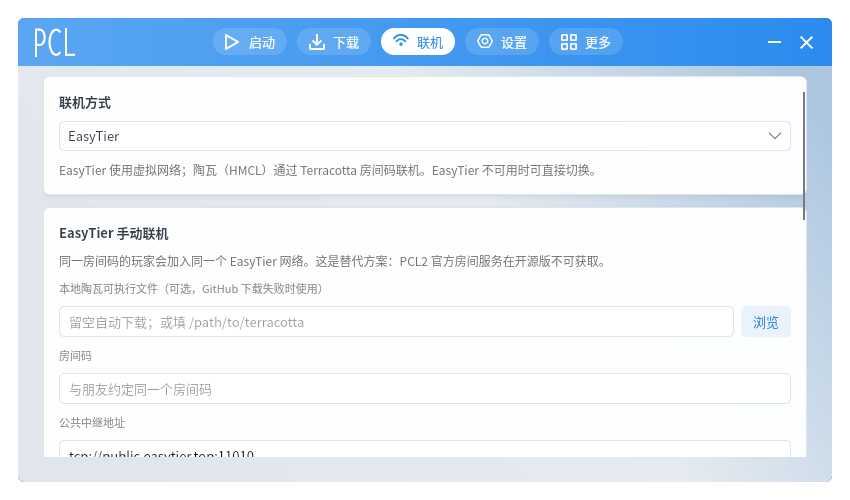
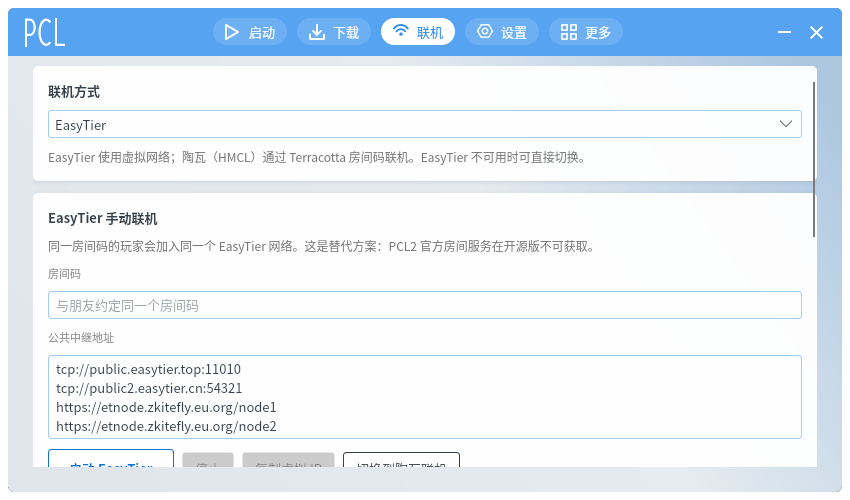
Fix: version selection and link backend logic

Changed region(s): [[0.0, 0.0, 1.0, 0.99], [0.8565, 0.63, 0.9176, 0.66]]

diff --git a/src/WMCL.App/ViewModels/LinkViewModel.cs b/src/WMCL.App/ViewModels/LinkViewModel.cs
@@ -37,6 +37,7 @@ public partial class LinkViewModel : ViewModelBase
         _terracottaMode = services.Settings.TerracottaMode == "加入房间"
             ? "加入房间"
             : "创建房间";
+        _terracottaExecutablePath = services.Settings.TerracottaExecutablePath;
         _service.LogReceived += line =>
         {
             Avalonia.Threading.Dispatcher.UIThread.Post(() => AppendLog(line));
@@ -84,7 +85,7 @@ public partial class LinkViewModel : ViewModelBase
     private bool _isTerracottaRunning;
 
     public bool HasTerracottaAddress => !string.IsNullOrWhiteSpace(TerracottaAddress);
-    public bool CanStartTerracotta => !IsTerracottaBusy && !IsTerracottaRunning;
+    public bool CanStartTerracotta => !IsTerracottaBusy && !IsTerracottaRunning && !IsBusy && !IsRunning;
     public bool CanStopTerracotta => IsTerracottaRunning || (IsTerracottaBusy && _terracottaCts is not null);
 
     [ObservableProperty]
@@ -123,7 +124,7 @@ public partial class LinkViewModel : ViewModelBase
     [ObservableProperty]
     private bool _isRunning;
 
-    public bool CanStart => !IsBusy && !IsRunning;
+    public bool CanStart => !IsBusy && !IsRunning && !IsTerracottaBusy && !IsTerracottaRunning;
     public bool CanStop => IsRunning || (IsBusy && _easyTierCts is not null);
     public bool HasVirtualIp => !string.IsNullOrWhiteSpace(VirtualIp);
 
@@ -131,41 +132,51 @@ public partial class LinkViewModel : ViewModelBase
     {
         OnPropertyChanged(nameof(IsEasyTier));
         OnPropertyChanged(nameof(IsTerracotta));
-        StartTerracottaCommand.NotifyCanExecuteChanged();
-        StopTerracottaCommand.NotifyCanExecuteChanged();
+        if (value == "陶瓦（HMCL）")
+        {
+            if (IsBusy) _easyTierCts?.Cancel();
+            if (IsRunning) _ = StopInternalAsync();
+            if (IsBusy || IsRunning) Status = "已切换到陶瓦联机，EasyTier 已停止。";
+        }
+        else if (value == "EasyTier")
+        {
+            if (IsTerracottaBusy) _terracottaCts?.Cancel();
+            if (IsTerracottaRunning) _ = StopTerracottaInternalAsync();
+            if (IsTerracottaBusy || IsTerracottaRunning)
+                TerracottaStatus = "已切换到 EasyTier，陶瓦已停止。";
+        }
+        NotifyLinkCommands();
     }
 
-    partial void OnIsTerracottaBusyChanged(bool value) => NotifyTerracottaCommands();
+    partial void OnIsTerracottaBusyChanged(bool value) => NotifyLinkCommands();
 
-    partial void OnIsTerracottaRunningChanged(bool value) => NotifyTerracottaCommands();
+    partial void OnIsTerracottaRunningChanged(bool value) => NotifyLinkCommands();
 
     partial void OnTerracottaAddressChanged(string value) =>
         OnPropertyChanged(nameof(HasTerracottaAddress));
 
-    private void NotifyTerracottaCommands()
+    private void NotifyLinkCommands()
     {
+        OnPropertyChanged(nameof(CanStart));
+        OnPropertyChanged(nameof(CanStop));
         OnPropertyChanged(nameof(CanStartTerracotta));
         OnPropertyChanged(nameof(CanStopTerracotta));
+        StartCommand.NotifyCanExecuteChanged();
+        StopCommand.NotifyCanExecuteChanged();
         StartTerracottaCommand.NotifyCanExecuteChanged();
         StopTerracottaCommand.NotifyCanExecuteChanged();
     }
 
-    partial void OnIsBusyChanged(bool value) => NotifyCommands();
+    partial void OnIsBusyChanged(bool value) => NotifyLinkCommands();
 
-    partial void OnIsRunningChanged(bool value) => NotifyCommands();
+    partial void OnIsRunningChanged(bool value) => NotifyLinkCommands();
 
     partial void OnVirtualIpChanged(string value) =>
         OnPropertyChanged(nameof(HasVirtualIp));
 
-    partial void OnRoomCodeChanged(string value) => NotifyCommands();
+    partial void OnRoomCodeChanged(string value) => NotifyLinkCommands();
 
-    private void NotifyCommands()
-    {
-        OnPropertyChanged(nameof(CanStart));
-        OnPropertyChanged(nameof(CanStop));
-        StartCommand.NotifyCanExecuteChanged();
-        StopCommand.NotifyCanExecuteChanged();
-    }
+
 
     [RelayCommand(CanExecute = nameof(CanStart))]
     private async Task StartAsync()
@@ -175,6 +186,12 @@ public partial class LinkViewModel : ViewModelBase
         {
             Status = "房间码至少 4 个字符，请与朋友使用同一个房间码。";
             return;
+        }
+
+        if (IsTerracottaRunning)
+        {
+            await StopTerracottaInternalAsync();
+            TerracottaStatus = "陶瓦已停止，正在启动 EasyTier。";
         }
 
         SaveLinkSettings();
@@ -213,7 +230,7 @@ public partial class LinkViewModel : ViewModelBase
             _easyTierCts?.Dispose();
             _easyTierCts = null;
             IsBusy = false;
-            NotifyCommands();
+            NotifyLinkCommands();
         }
     }
 
@@ -410,6 +427,12 @@ public partial class LinkViewModel : ViewModelBase
             return;
         }
 
+        if (IsRunning)
+        {
+            await StopInternalAsync();
+            Status = "EasyTier 已停止，正在启动陶瓦。";
+        }
+
         SaveLinkSettings();
         _terracottaCts = new CancellationTokenSource();
         IsTerracottaBusy = true;
@@ -464,7 +487,7 @@ public partial class LinkViewModel : ViewModelBase
             _terracottaCts?.Dispose();
             _terracottaCts = null;
             IsTerracottaBusy = false;
-            NotifyTerracottaCommands();
+            NotifyLinkCommands();
         }
     }
 
@@ -568,6 +591,7 @@ public partial class LinkViewModel : ViewModelBase
         _services.Settings.EasyTierRoomCode = RoomCode;
         _services.Settings.LinkBackend = SelectedBackend;
         _services.Settings.TerracottaMode = TerracottaMode;
+        _services.Settings.TerracottaExecutablePath = TerracottaExecutablePath;
         _services.SaveSettings();
     }
 

diff --git a/src/WMCL.App/Views/VersionSelectView.axaml.cs b/src/WMCL.App/Views/VersionSelectView.axaml.cs
@@ -1,8 +1,19 @@
 using Avalonia.Controls;
+using Avalonia.Input;
+using Avalonia.Interactivity;
+using WMCL.App.ViewModels;
 
 namespace WMCL.App.Views;
 
 public partial class VersionSelectView : UserControl
 {
     public VersionSelectView() => InitializeComponent();
+
+    private void OnVersionListPointerReleased(object? sender, PointerReleasedEventArgs e)
+    {
+        // PCL2 PageSelect：单击版本即选中并返回启动页；异步首次选中不会触发。
+        if (DataContext is not VersionSelectViewModel viewModel) return;
+        if (viewModel.SelectedVersion is null) return;
+        viewModel.ConfirmCommand.Execute(null);
+    }
 }

diff --git a/src/WMCL.App/Services/AppSettings.cs b/src/WMCL.App/Services/AppSettings.cs
@@ -23,6 +23,7 @@ public sealed class AppSettings
     public string EasyTierRoomCode { get; set; } = "";
     public string LinkBackend { get; set; } = "EasyTier";
     public string TerracottaMode { get; set; } = "创建房间";
+    public string TerracottaExecutablePath { get; set; } = "";
     public string CustomLogoPath { get; set; } = "";
     public string CustomHomePagePath { get; set; } = "";
     public string MusicFolder { get; set; } = "";

diff --git a/src/WMCL.App/Views/InstanceView.axaml.cs b/src/WMCL.App/Views/InstanceView.axaml.cs
@@ -43,7 +43,7 @@ public partial class InstanceView : UserControl
                 main.OpenInstanceContent("content-shader", "光影");
                 break;
         }
-        SectionList.SelectedIndex = 0;
+        if (SectionList is not null) SectionList.SelectedIndex = 0;
     }
 
     private async void OnChooseExportPathClick(object? sender, Avalonia.Interactivity.RoutedEventArgs e)

diff --git a/src/WMCL.App/ViewModels/MainWindowViewModel.cs b/src/WMCL.App/ViewModels/MainWindowViewModel.cs
@@ -274,7 +274,7 @@ public partial class MainWindowViewModel : ViewModelBase, IDisposable
             progress = 0;
             text = "导入实例";
         }
-        else if (Launch.IsBusy)
+        else if (Launch.IsBusy && Launch.Progress > 0)
         {
             progress = Launch.Progress;
             text = "安装/启动版本";

diff --git a/docs/LINK_VERSION_LOGIC_AUDIT.md b/docs/LINK_VERSION_LOGIC_AUDIT.md
@@ -1,0 +1,30 @@
+# 联机与版本选择逻辑审计
+
+这次按 PCL2 源码逐项核对，不是只看界面。
+
+## 已修
+
+| # | 问题 | 原行为 | 现在的行为 |
+|---|---|---|---|
+| 1 | 版本选择页按钮叫“启动游戏” | 只设置 `Launch.SelectedVersion` 并关闭页面，**不会启动游戏** | 按钮改名为“选择此版本”；单击列表项即选择并返回启动页，符合 PCL2 `PageSelectRight.Item_Click` 的 `McInstanceSelected + PageBack` |
+| 2 | 异步首次选中版本触发返回 | 列表加载完成后自动选中第一项，页面可能自动关闭 | 改为 `PointerReleased`，只有用户真正点击列表项才返回 |
+| 3 | EasyTier 和陶瓦可同时启动 | 两个 `CanStart` 只看自己的状态 | 互斥：一个在运行/启动时，另一个按钮禁用；启动一个会停止另一个 |
+| 4 | 切换联机方式不停旧后端 | EasyTier 运行中切到陶瓦，EasyTier 仍在跑 | 切换时取消/停止旧后端 |
+| 5 | EasyTier 卡片出现陶瓦路径 | EasyTier 卡片复制了“本地陶瓦可执行文件”输入，实际启动不会使用 | 已从 EasyTier 卡片删除 |
+| 6 | 陶瓦可执行文件路径不持久化 | 选好后重启丢失 | 新增 `AppSettings.TerracottaExecutablePath`，启动/保存设置时写入 |
+| 7 | 加载版本列表时弹出任务按钮 | `Launch.IsBusy` 直接当任务状态 | 改为 `Launch.IsBusy && Launch.Progress > 0`，普通版本目录加载不再显示任务球 |
+
+## 仍存在的边界
+
+- PCL2 官方房间服务依赖闭源配置，本项目无法使用；联机页仍是 **EasyTier 手动网络 / 陶瓦 Terracotta** 替代方案，不是 PCL2 的官方房间列表和玩家列表。
+- 联机页不会自动启动 Minecraft 或自动加入服务器；房主仍需在游戏内“对局域网开放”，客人手动连接显示的地址。
+- 版本选择页右侧是简化详情卡片；PCL2 原版右侧是按类型分组的版本卡片，还支持收藏、隐藏版本、错误版本等分组。
+- `AutoFallbackToTerracotta` 默认开启，EasyTier 失败会自动切到陶瓦；不需要时可在界面关掉。
+- 陶瓦/TUN/EasyTier 仍依赖本机权限、二进制下载和网络环境。
+
+## 验证
+
+- `dotnet build WMCL.slnx -c Release --nologo -v q`：0 warning / 0 error
+- `dotnet test WMCL.slnx -c Release --nologo -v q`：142 passed
+- 版本选择页实测：异步加载后页面不再自动关闭；列表可显示已安装版本。
+- 联机页实测：EasyTier 卡片不再出现陶瓦路径输入。

diff --git a/README.md b/README.md
@@ -13,6 +13,7 @@
 
 最新审计：[第二次大审计](docs/AUDIT_2026-10-19.md)。
 UI 逻辑审计：[版本选择与页面跳转](docs/UI_LOGIC_AUDIT.md)。
+联机/版本选择逻辑：[专项审计](docs/LINK_VERSION_LOGIC_AUDIT.md)。
 UI 对照：[PCL / PCL-CE / PCL-ME](docs/UI_REFERENCE.md)。
 
 ![版本选择页面](docs/screenshots/wmcl-version-select.png)
